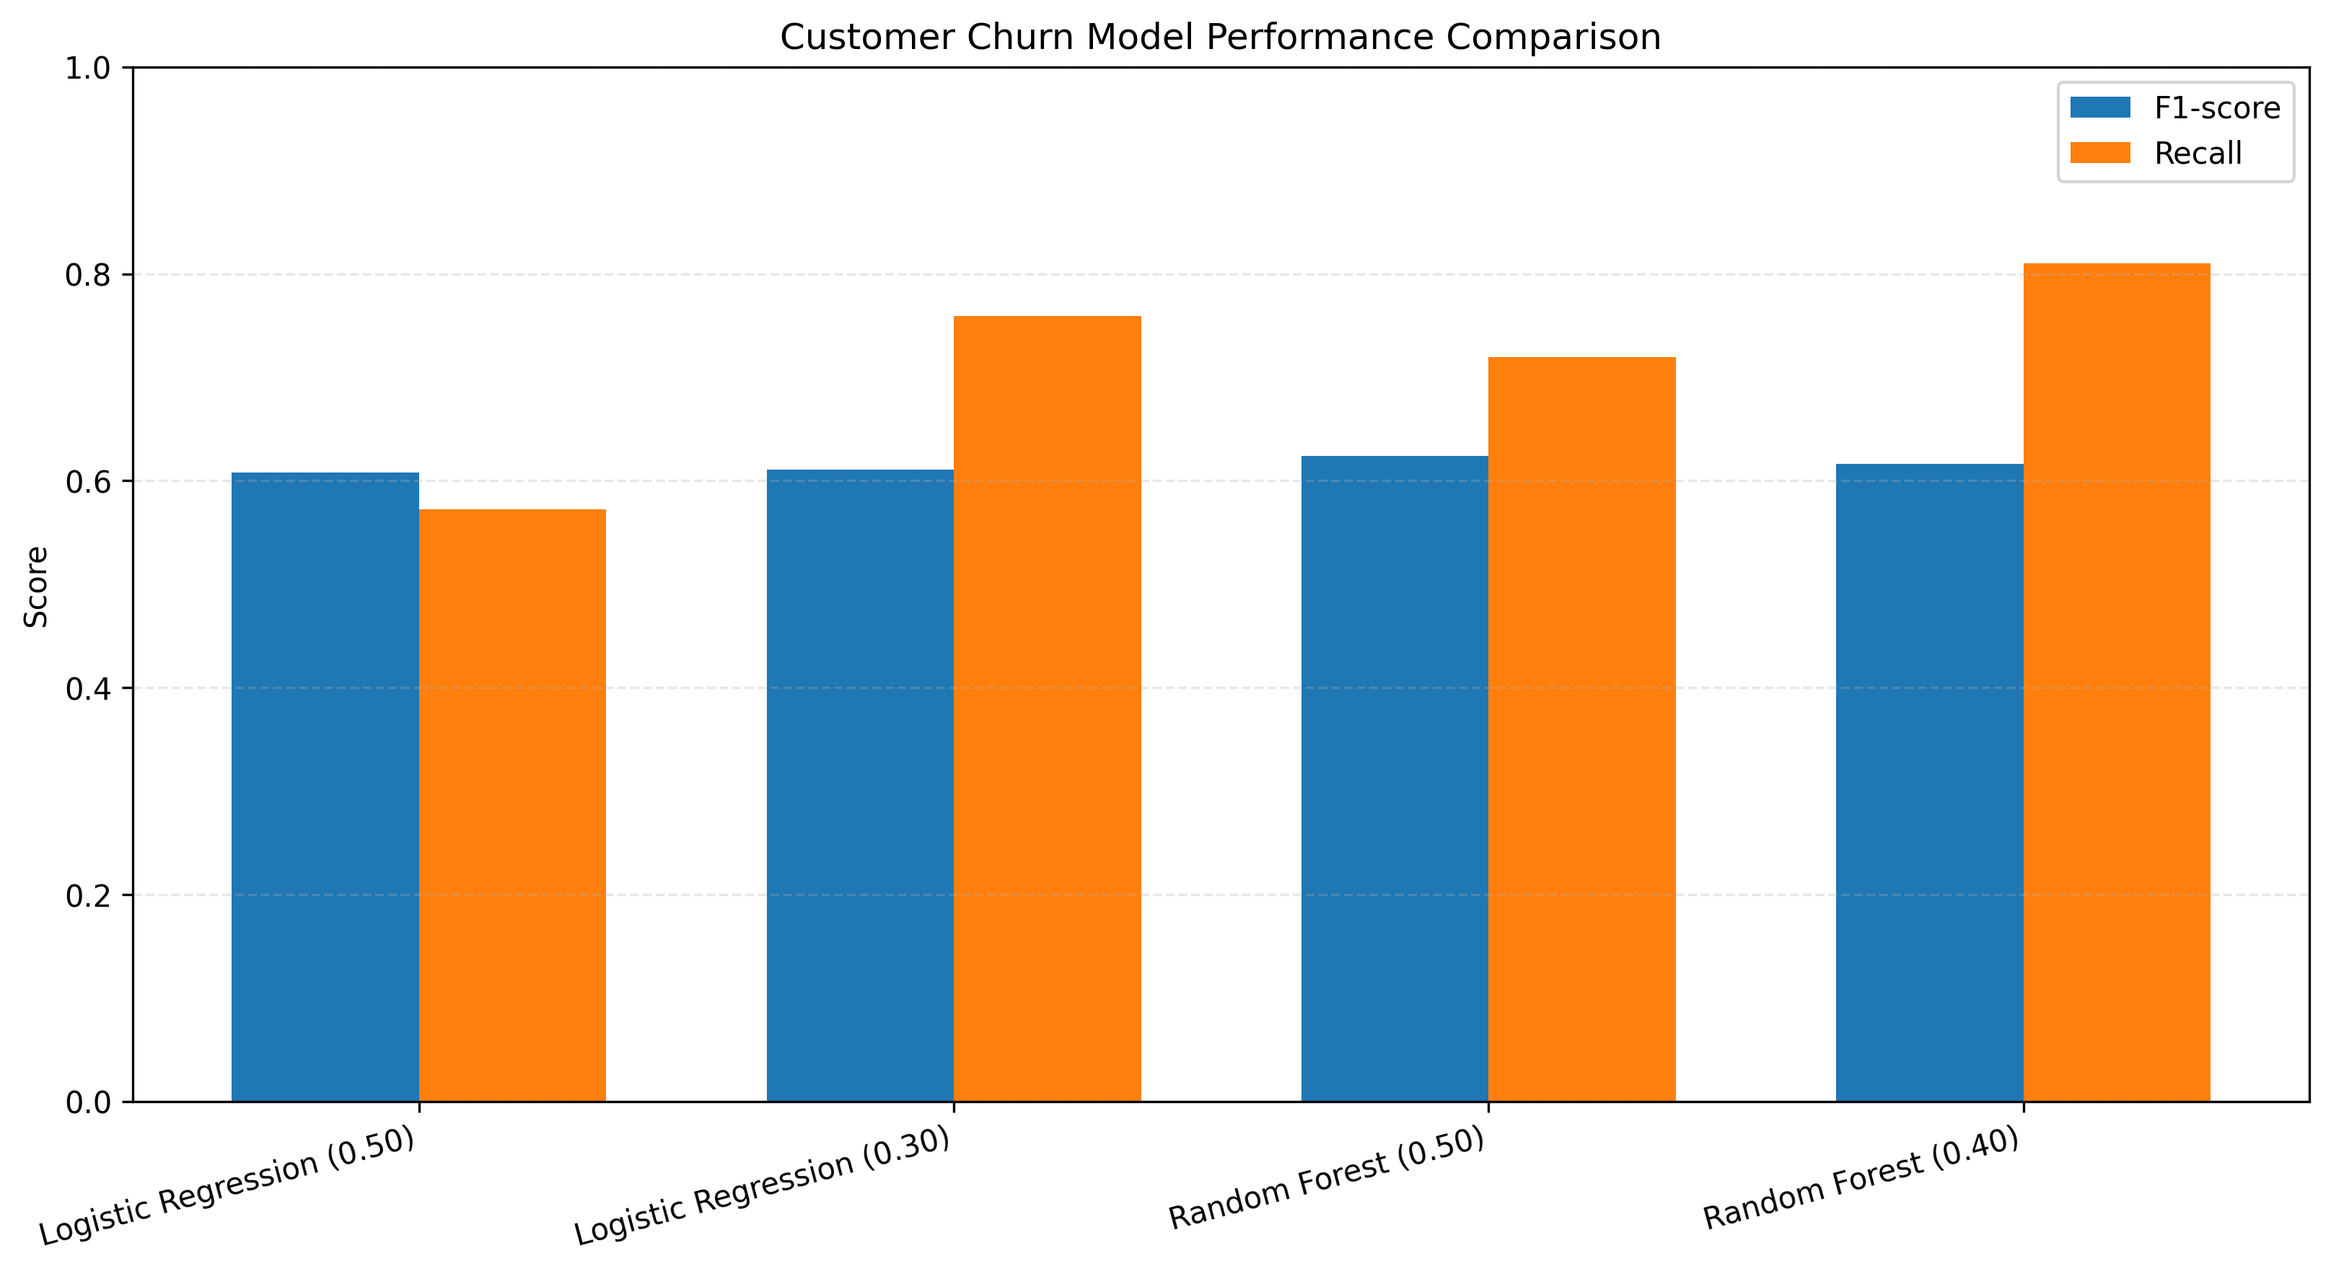
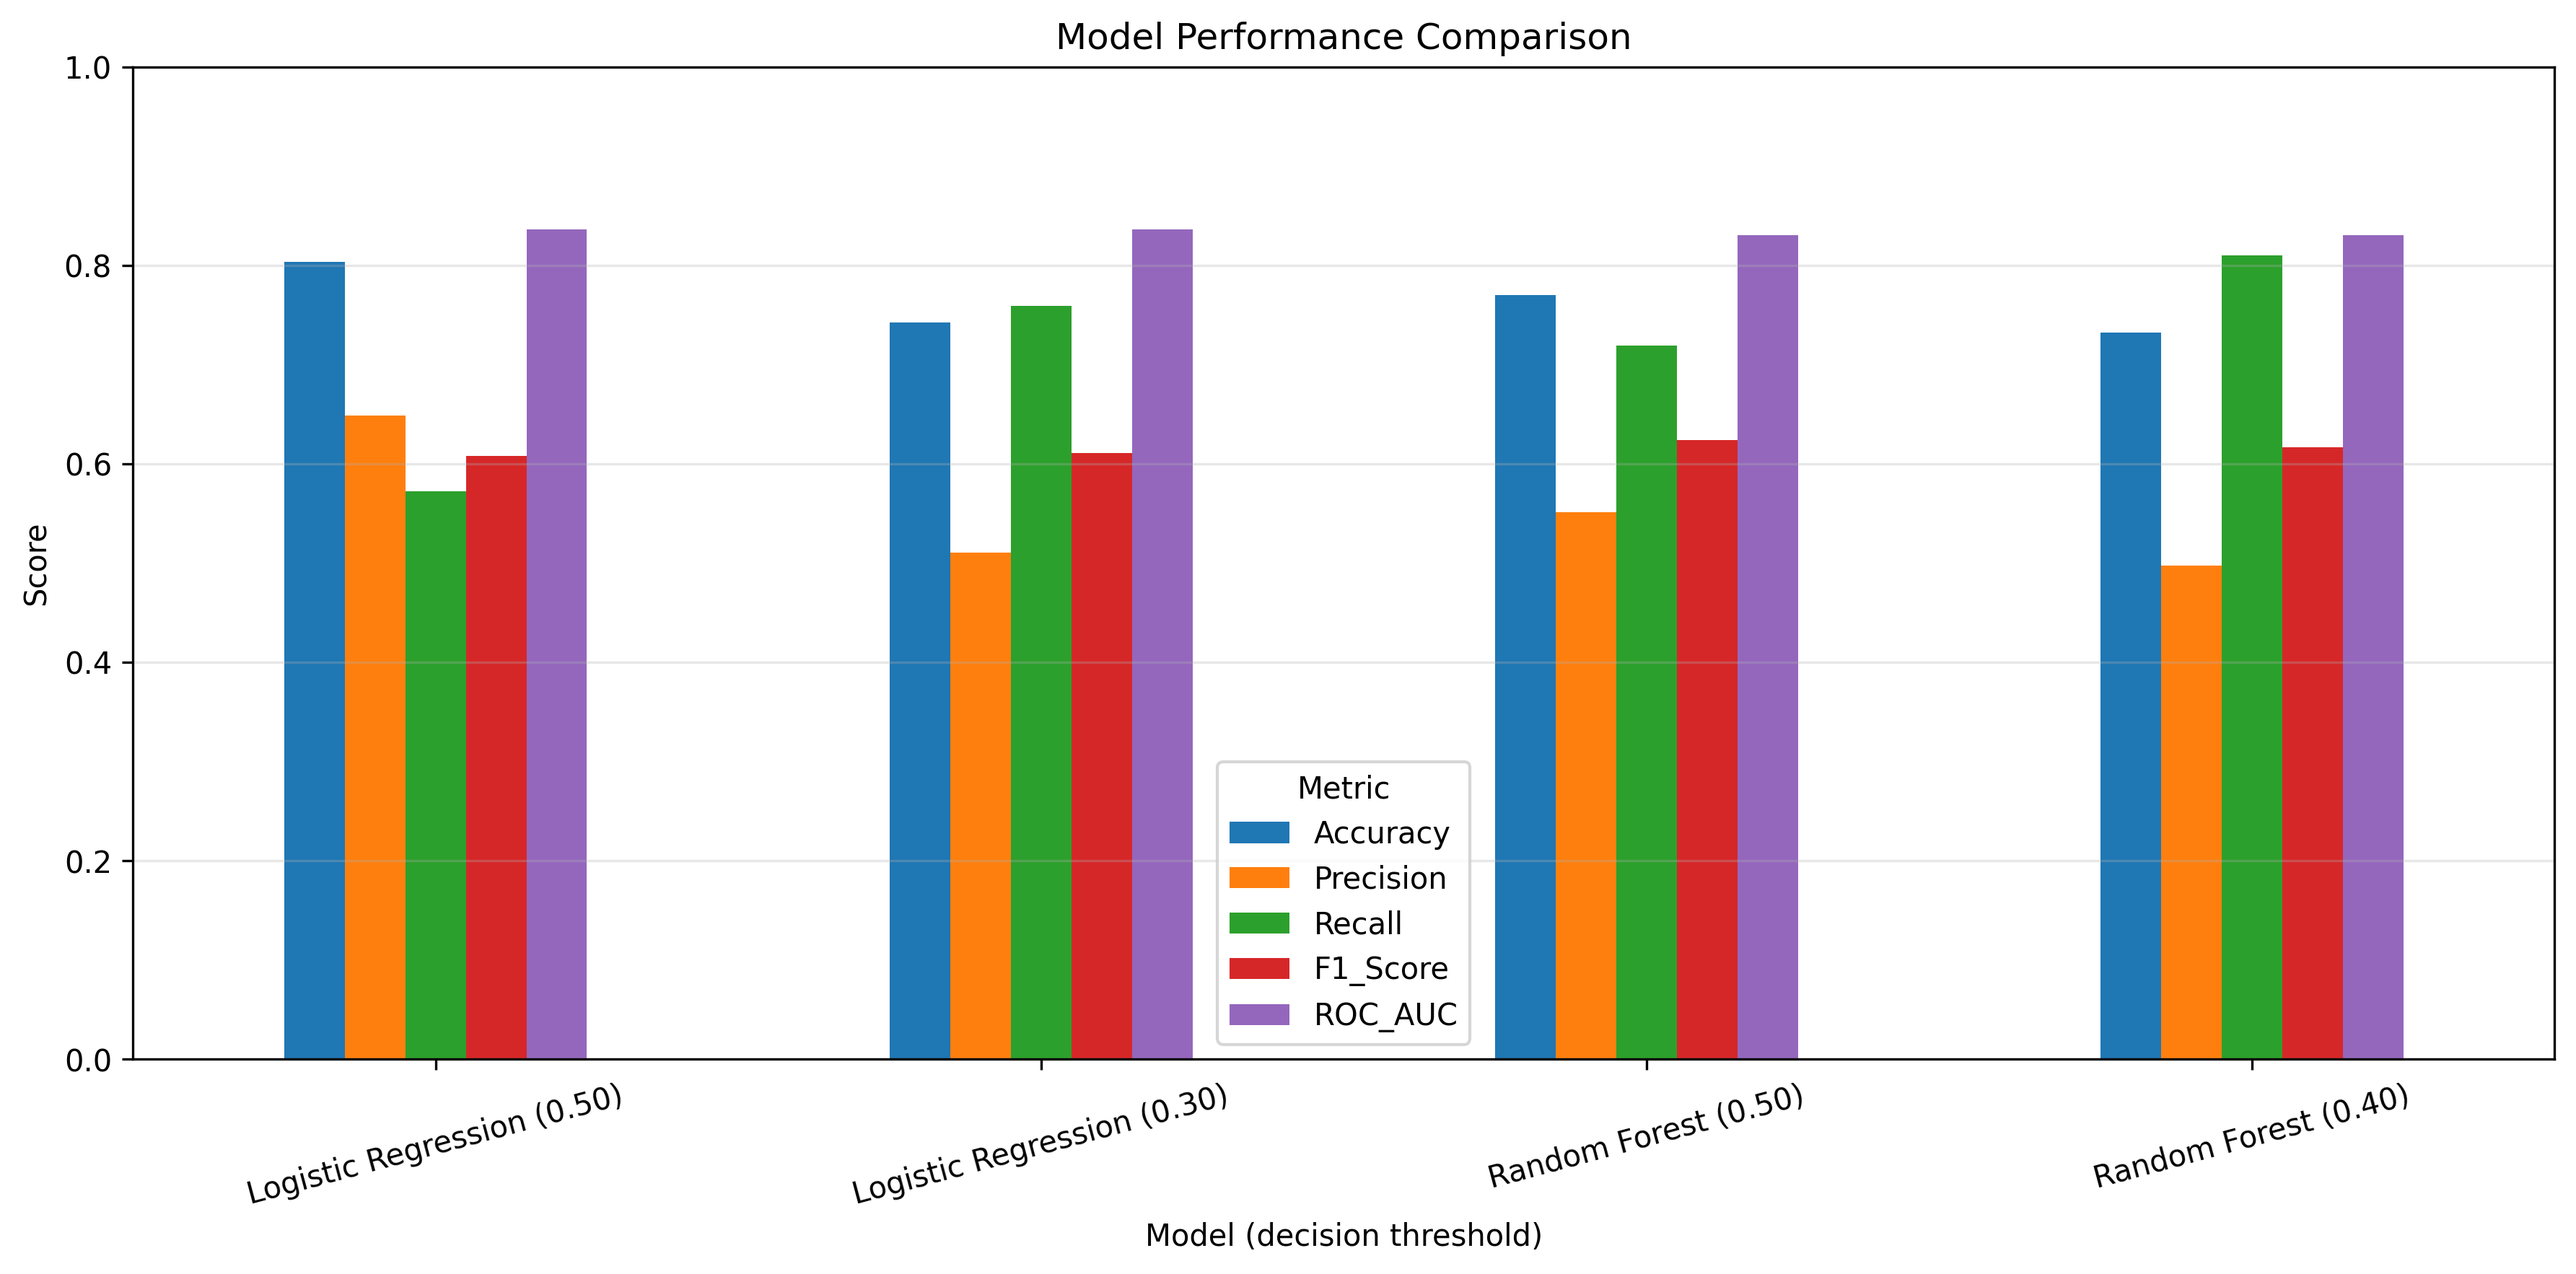
Fix model comparison chart and update metrics

diff --git a/churn_analysis.py b/churn_analysis.py
@@ -486,8 +486,7 @@ print(confusion_matrix(y_test, rf_final_predictions))
 # ================= MODEL COMPARISON =================
 
 # Logistic Regression test probabilities and predictions
-lr_test_probabilities = logistic_regression.predict_proba(X_test)[:, 1]
-
+lr_test_probabilities = model.predict_proba(X_test)[:, 1]
 lr_default_predictions = (
     lr_test_probabilities >= 0.50
 ).astype(int)
@@ -600,58 +599,3 @@ print("Saved updated chart to reports/figures/model_performance_comparison.png")
 
 
 
-# ============== MODEL PERFORMANCE CHART ==============
-
-import matplotlib.pyplot as plt
-
-labels = [
-    "Logistic Regression (0.50)",
-    "Logistic Regression (0.30)",
-    "Random Forest (0.50)",
-    "Random Forest (0.40)"
-]
-
-f1_scores = comparison["F1_Score"].tolist()
-recall_scores = comparison["Recall"].tolist()
-
-x = range(len(labels))
-width = 0.35
-
-fig, ax = plt.subplots(figsize=(11, 6))
-
-ax.bar(
-    [i - width / 2 for i in x],
-    f1_scores,
-    width,
-    label="F1-score"
-)
-
-ax.bar(
-    [i + width / 2 for i in x],
-    recall_scores,
-    width,
-    label="Recall"
-)
-
-ax.set_ylabel("Score")
-ax.set_title("Customer Churn Model Performance Comparison")
-ax.set_xticks(list(x))
-ax.set_xticklabels(labels, rotation=15, ha="right")
-ax.set_ylim(0, 1)
-ax.legend()
-ax.grid(axis="y", linestyle="--", alpha=0.3)
-
-plt.tight_layout()
-
-figure_dir = Path("reports/figures")
-figure_dir.mkdir(parents=True, exist_ok=True)
-
-plt.savefig(
-    figure_dir / "model_performance_comparison.png",
-    dpi=300,
-    bbox_inches="tight"
-)
-
-plt.close()
-
-print("Saved: reports/figures/model_performance_comparison.png")
